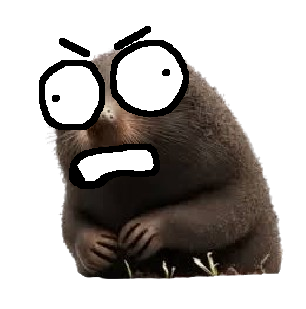
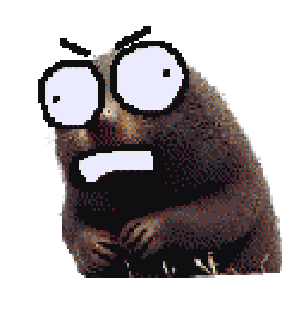
Kostebek gorseli, engel cesitliligi ve akici engel hareketi
- Kostebek Avi: vurulan kostebek gorseli yenisiyle degistirildi,
  kirpma kutusu resmin gercek sinirlarina gore olculdu (38,26,244x252).

- Engelden Kac: engeller artik tek tip degil. Her satirin kendi
  kalinligi (13-18 piksel) ve uc gorsel cesitten biri var
  (duvar / mor blok / metal bariyer), satir araliklari da sasirtiliyor.
  Boylece desen makine gibi duzenli durmuyor.

  Cesitlilik eklenince oyun adaletsizlesti (kalin satirlar carpisma
  bandinda daha uzun kaliyor). Satirlar arasi en az sure artik sabit
  degil, satirin kendisinden hesaplaniyor:
      kalinlik/hiz + en genis serit gecisi + tepki payi
  Tepki payi tur ilerledikce daraliyor (0.36 -> 0.14), yani oyun
  sona dogru zorlasiyor ama hicbir zaman gecilemez hale gelmiyor.

  Dogrulama: 400 desenin 400'u ziplama kullanilmadan bile cozulebilir
  (tum serit kararlarini tarayan cozucuyle olculdu). Bot testinde
  iyi oyuncu %30, zayif oyuncu %8 kazaniyor - beceri farki koruyor.

- Engelden Kac akiciligi: sunucu her satirin hizini da yolluyor,
  istemci paketler arasi konumu suzerek ilerletiyor. 30 Hz paketle
  60 fps akici hareket; engeller artik zipzip gelmiyor.

diff --git a/public/js/minigames/dodge.js b/public/js/minigames/dodge.js
@@ -4,14 +4,18 @@
   var g = PP.gfx, f = PP.font, P = g.PAL;
 
   var ZEMIN = '#3a3550';
-  var ZEMIN_ACIK = '#494263';
   var CIZGI = '#6b6390';
   var KENAR = '#8d84b8';
-  var ENGEL = '#b13e53';
-  var ENGEL_UST = '#e0687f';
+
+  // Yuksek engel cesitleri (gecilmez) - hepsi ayni durmasin diye
+  var TIPLER = [
+    { ana: '#b13e53', ust: '#e0687f', koyu: '#7d2739' },   // duvar
+    { ana: '#7b4bb5', ust: '#a878e0', koyu: '#553180' },   // mor blok
+    { ana: '#3f7fa8', ust: '#6bb2d8', koyu: '#2a5875' }    // metal bariyer
+  ];
   var ALCAK = '#c9743a';
   var ALCAK_UST = '#e8a05e';
-
+  var ALCAK_KOYU = '#8f4f24';
 
   PP.MG = PP.MG || {};
   PP.MG.dodge = {
@@ -24,6 +28,7 @@
       var ay = v.top + 12;
       var ah = Math.min(st.h, v.H - ay - 2);
       var seritW = st.w / st.lanes;
+      var gec = v.gecikme || 0;      // son paketten bu yana gecen sure
 
       for (var i = 0; i < n; i++) {
         var p = v.players[i];
@@ -38,44 +43,62 @@
         // ---- pist ----
         g.rect(ctx, ax - 1, ay - 1, st.w + 2, ah + 2, P.black);
         g.rect(ctx, ax, ay, st.w, ah, ZEMIN);
-        // serit ayirici cizgiler (kesikli, akiyormus gibi)
+        // serit ayirici cizgiler (akiyormus gibi)
         for (var l = 1; l < st.lanes; l++) {
           var lx = ax + Math.round(seritW * l);
           for (var d = (Math.floor(v.time * 60) % 12); d < ah; d += 12) {
             g.rect(ctx, lx, ay + d, 1, 6, CIZGI);
           }
         }
-        // kenar bantlari
         g.rect(ctx, ax, ay, 2, ah, KENAR);
         g.rect(ctx, ax + st.w - 2, ay, 2, ah, KENAR);
-        // uzaklik hissi: ust taraf biraz daha koyu
-        g.rect(ctx, ax + 2, ay, st.w - 4, 10, '#2f2b44');
+        g.rect(ctx, ax + 2, ay, st.w - 4, 10, '#2f2b44');     // uzaklik hissi
 
         // ---- engel satirlari ----
         for (var r = 0; r < st.rows.length; r++) {
           var row = st.rows[r];
-          var ry = ay + row.y;
-          if (ry + st.rh < ay || ry > ay + ah) continue;
+          // Paketler arasinda konumu hizla suzerek ilerlet -> 60 fps akici hareket
+          var ry = ay + row.y + (row.v || 0) * gec;
+          var rh = row.h || st.rh;
+          if (ry + rh < ay || ry > ay + ah) continue;
           var ust = Math.max(ay, ry);
-          var alt = Math.min(ay + ah, ry + st.rh);
+          var alt = Math.min(ay + ah, ry + rh);
           if (alt <= ust) continue;
 
           for (var q = 0; q < row.k.length; q++) {
             var ex = ax + Math.round(seritW * row.k[q]) + 1;
             var ew = Math.round(seritW) - 2;
+
             if (row.al) {
               // ALCAK engel: kisa, ustunden ziplanabilir
-              var ay2 = Math.max(ust, ry + Math.round(st.rh * 0.45));
+              var ay2 = Math.max(ust, ry + rh * 0.45);
               if (alt > ay2) {
                 g.rect(ctx, ex, ay2, ew, alt - ay2, ALCAK);
-                if (ry + st.rh * 0.45 >= ay) g.rect(ctx, ex, ay2, ew, 2, ALCAK_UST);
+                if (ry + rh * 0.45 >= ay) g.rect(ctx, ex, ay2, ew, 2, ALCAK_UST);
+                g.rect(ctx, ex, alt - 1, ew, 1, ALCAK_KOYU);
+                for (var s2 = 3; s2 < ew - 3; s2 += 7) {        // sari-siyah serit
+                  g.rect(ctx, ex + s2, ay2 + 2, 3, Math.max(1, alt - ay2 - 4), ALCAK_KOYU);
+                }
               }
-            } else {
-              g.rect(ctx, ex, ust, ew, alt - ust, ENGEL);
-              if (ry >= ay) g.rect(ctx, ex, ry, ew, 2, ENGEL_UST);
-              // dikey cubuklar - duvar hissi
-              for (var cc = 4; cc < ew - 2; cc += 6) {
-                g.rect(ctx, ex + cc, ust, 1, alt - ust, '#8d2f42');
+              continue;
+            }
+
+            var T = TIPLER[(row.tip || 0) % TIPLER.length];
+            g.rect(ctx, ex, ust, ew, alt - ust, T.ana);
+            if (ry >= ay) g.rect(ctx, ex, ry, ew, 2, T.ust);
+            g.rect(ctx, ex, alt - 1, ew, 1, T.koyu);
+
+            if ((row.tip || 0) === 0) {                          // duvar: dikey cubuklar
+              for (var c1 = 4; c1 < ew - 2; c1 += 6) {
+                g.rect(ctx, ex + c1, ust, 1, alt - ust, T.koyu);
+              }
+            } else if ((row.tip || 0) === 1) {                   // blok: kutucuklar
+              var ortaY = Math.round((ust + alt) / 2);
+              if (ortaY > ust && ortaY < alt) g.rect(ctx, ex, ortaY, ew, 1, T.koyu);
+              g.rect(ctx, ex + Math.round(ew / 2), ust, 1, alt - ust, T.koyu);
+            } else {                                             // bariyer: capraz cizgiler
+              for (var c2 = 0; c2 < ew; c2 += 5) {
+                g.rect(ctx, ex + c2, ust, 2, Math.max(1, Math.round((alt - ust) / 2)), T.koyu);
               }
             }
           }
@@ -84,10 +107,10 @@
         // ---- oyuncu ----
         var px = ax + Math.round(st.w * (me.k + 0.5) / st.lanes);
         var zipla = 0;
-        if (me.z >= 0) zipla = Math.round(Math.sin(Math.PI * me.z) * 16);   // ziplama yayi
+        if (me.z >= 0) zipla = Math.round(Math.sin(Math.PI * me.z) * 16);
         var py = ay + st.py - zipla;
 
-        if (me.a && zipla > 2) {                                  // havadayken golge
+        if (me.a && zipla > 2) {
           g.rect(ctx, px - 5, ay + st.py + st.ph - 1, 10, 2, '#2a2640');
         }
         PP.chars.ciz(ctx, p.char, px, py + st.ph / 2, st.pw + 6, st.ph + 2, { dead: !me.a });

diff --git a/server/minigames/dodge.js b/server/minigames/dodge.js
@@ -44,12 +44,24 @@ function buildSchedule() {
       ? digerleri
       : [digerleri[Math.floor(Math.random() * digerleri.length)]];
     const alcak = Math.random() < 0.4;            // alcak engel: ziplayarak da gecilir
+    const kalinlik = 13 + Math.floor(Math.random() * 6);   // 13-18: her satir ayni durmasin
+    const tip = Math.floor(Math.random() * 3);             // gorsel cesit (duvar/sandik/bariyer)
 
-    rows.push({ t, v, kapali, alcak });
+    rows.push({ t, v, kapali, alcak, h: kalinlik, tip });
 
-    // Alt sinir 0.50 sn: iki serit gecisi 0.27 sn surdugu icin gecilebilir kalir,
-    // ama son saniyeler belirgin sekilde cetinlesir.
-    t += Math.max(0.50, 1.15 - t * 0.045);
+    // Aralik biraz sasirtilir ki desen makine gibi duzenli durmasin.
+    //
+    // Alt sinir SABIT DEGIL, satirin kendisinden hesaplanir:
+    //   satirin bandi terk etme suresi (kalinlik/hiz)
+    // + en genis serit gecisi (2 serit = 0.27 sn)
+    // + tepki payi
+    // Boylece kalin ve hizli satirlarda bile bir sonraki satira yetismek
+    // her zaman mumkun kalir; desen hicbir zaman gecilemez hale gelmez.
+    const gecis = 2 / SWITCH_SPEED;
+    const tepkiPayi = 0.36 - t * 0.016;      // tur ilerledikce daralir = zorlasir
+    const enAzAra = kalinlik / v + gecis + tepkiPayi;
+    var ara = (1.15 - t * 0.045) * (0.85 + Math.random() * 0.32);
+    t += Math.max(enAzAra, ara);
   }
   return rows;
 }
@@ -105,7 +117,7 @@ module.exports = {
 
         while (this.nextRow < this.plan.length && this.plan[this.nextRow].t <= this.t) {
           const r = this.plan[this.nextRow++];
-          this.rows.push({ y: -ROW_H, v: r.v, kapali: r.kapali, alcak: r.alcak });
+          this.rows.push({ y: -r.h, v: r.v, kapali: r.kapali, alcak: r.alcak, h: r.h, tip: r.tip });
         }
 
         for (let i = this.rows.length - 1; i >= 0; i--) {
@@ -133,7 +145,7 @@ module.exports = {
           const ucuyor = this.havada(p);
 
           for (const r of this.rows) {
-            if (PLAYER_Y >= r.y + ROW_H || PLAYER_Y + PLAYER_H <= r.y) continue;
+            if (PLAYER_Y >= r.y + r.h || PLAYER_Y + PLAYER_H <= r.y) continue;
             if (r.alcak && ucuyor) continue;                  // ustunden atladi
             let carpti = false;
             for (const l of r.kapali) {
@@ -180,7 +192,11 @@ module.exports = {
         return {
           w: this.W, h: ARENA_H, lanes: LANES,
           pw: PLAYER_W, ph: PLAYER_H, py: PLAYER_Y, rh: ROW_H,
-          rows: this.rows.map((r) => ({ y: Math.round(r.y), k: r.kapali, al: r.alcak })),
+          // v = hiz: istemci paketler arasinda konumu suzerek akici cizer
+          rows: this.rows.map((r) => ({
+            y: Math.round(r.y * 10) / 10, v: Math.round(r.v), h: r.h,
+            k: r.kapali, al: r.alcak, tip: r.tip
+          })),
           pl,
         };
       },

diff --git a/public/js/minigames/mole.js b/public/js/minigames/mole.js
@@ -8,7 +8,7 @@
   var KAYNAK = {
     kostebek: { src: 'img/kostebek.png', kirp: { x: 54, y: 38, w: 227, h: 240 }, w: 40, h: 42 },
     // cekic yiyince gosterilen sersemlemis hali
-    kostebekVur: { src: 'img/kostebek_vur.png', kirp: { x: 39, y: 26, w: 243, h: 253 }, w: 42, h: 44 },
+    kostebekVur: { src: 'img/kostebek_vur.png', kirp: { x: 38, y: 26, w: 244, h: 252 }, w: 42, h: 44 },
     bomba: { src: 'img/bomba.png', kirp: { x: 62, y: 69, w: 483, h: 383 }, w: 46, h: 37 },
     // cekicin BASI vurdugu yer oldugu icin tutma noktasi bas hizasinda
     cekic: {

diff --git a/public/js/main.js b/public/js/main.js
@@ -412,7 +412,10 @@
     return {
       W: W, H: H, top: TOP, time: time,
       players: state.players, you: youId,
-      ptr: ptr                      // dokunmatik oyunlar yerel parmak konumunu kullanir
+      ptr: ptr,                     // dokunmatik oyunlar yerel parmak konumunu kullanir
+      // Son durum paketinden bu yana gecen sure. Hizli hareket eden nesneler
+      // (kosu pistindeki engeller) bununla suzulup 60 fps akici cizilir.
+      gecikme: Math.max(0, Math.min(0.25, (performance.now() - sonSync) / 1000))
     };
   }
 
